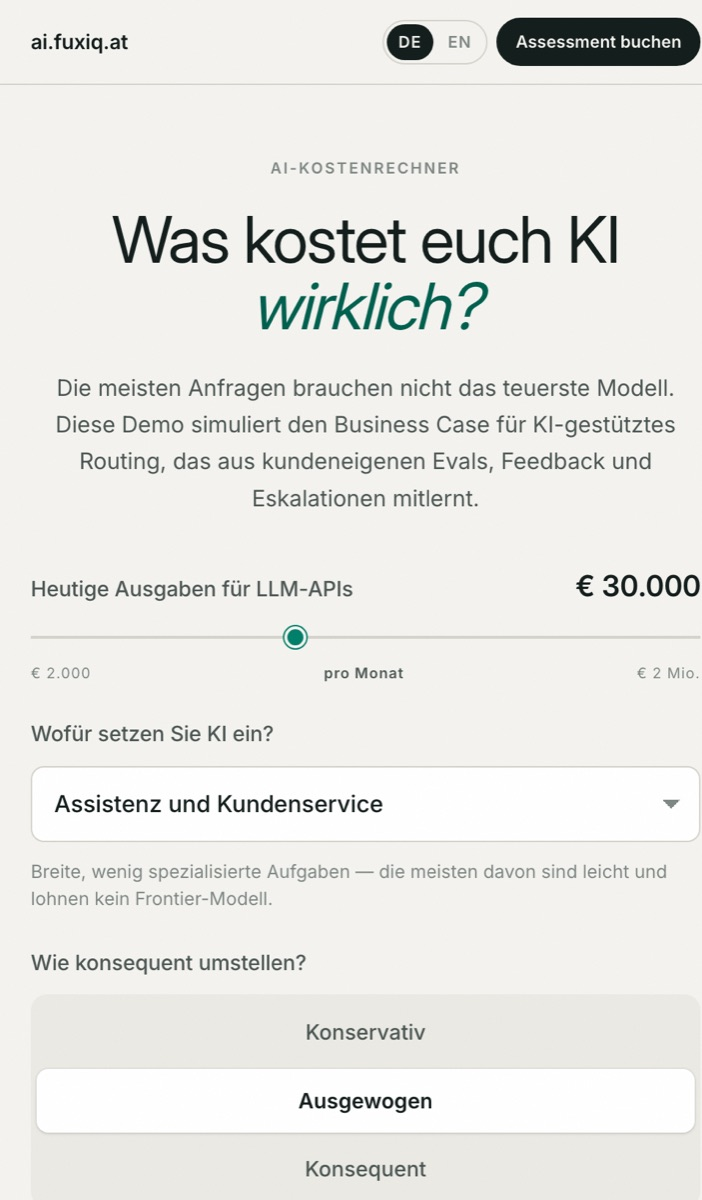
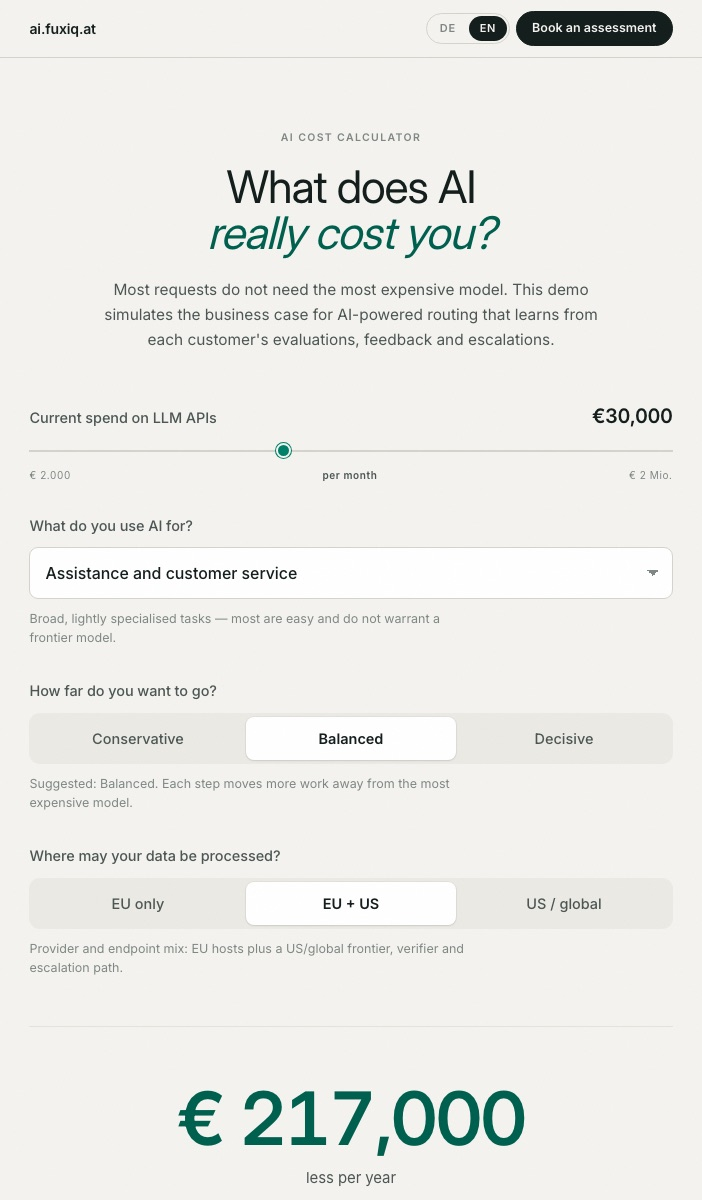
Describe project concepts instead of their websites
The project cards explained how each site was built - "zero-build static
site", "static site generator in Python", "the markup carries no copy at
all" - rather than the idea the site exists to present. Rewritten from
the English version of each project's own pages:

- EveryWay: the problem, six combinable profiles, data sources, gap
  analysis against existing tools, legal framing, beacon pilot at WU
- IntelligentLiving: context model, local/remote boundary, two-stage
  concierge, room device without display or status light
- AI Hedging: routing business case, sensitivity as the actual result,
  roadmap to tenant-isolated policies
- SEREVO: the hours after check-in, one core across verticals,
  self-service demo
- Shopping Intelligence: the fiscal QR signature as a ground-truth
  oracle for validating extraction

Also:
- Add Document Intelligence Architecture card with an SVG placeholder
- Drop the Celery/Postgres/Redis/S3 claim - not implemented, only a
  migration comment in the extraction repo
- Turn the Invoice Automation and APA methods lines into statements
- Replace the German AI Hedging and IntelligentLiving screenshots with
  English ones, taken from dist/en/ and ?lang=en
- Update the thesis section: medical domain named, accuracy and
  faithfulness as separate metrics, Fuseki, Qdrant, LiteLLM and Langfuse
  added to a stack list that had gone stale

diff --git a/index.html b/index.html
@@ -429,6 +429,15 @@
     }
     .project-img figcaption a { color: var(--subtle); text-decoration: underline; }
 
+    /* Karten ohne Foto: gezeichneter Platzhalter, gleiche Spaltenbreite */
+    .project-img.is-graphic {
+      background: linear-gradient(150deg, #eaeef4 0%, #dfe5ee 55%, #d5dce8 100%);
+      align-items: center;
+      justify-content: center;
+      padding: 22px;
+    }
+    .project-img.is-graphic svg { width: 100%; height: auto; max-height: 100%; }
+
     .project-body {
       padding: 26px 28px;
       display: flex;
@@ -985,7 +994,7 @@
               </div>
               <div class="project-meta-row">
                 <span class="project-meta-label">Methods</span>
-                <span class="project-meta-value">LLM prompting, document parsing, workflow automation, on-premise model deployment, SAP API integration.</span>
+                <span class="project-meta-value">Invoices are exactly the documents an enterprise cannot send to a cloud model, so the question is whether a model running on the company&rsquo;s own hardware is good enough to do the work. Agents parse the document, derive the posting and write it into SAP through its own API, with the boundary between what the agent completes alone and what a person still has to confirm treated as a design decision rather than a setting.</span>
               </div>
               <div class="project-meta-row">
                 <span class="project-meta-label">Outcome</span>
@@ -1018,7 +1027,7 @@
               </div>
               <div class="project-meta-row">
                 <span class="project-meta-label">Methods</span>
-                <span class="project-meta-value">Text classification, NLP-based feature engineering, relevance scoring, evaluation on private APA infrastructure.</span>
+                <span class="project-meta-value">An interview is a format, not a subject &mdash; it has to be recognised from structure and turn-taking rather than from what the text is about, which is why detection and ranking are two stages instead of one classifier. The archive cannot leave the newsroom, so every training and evaluation run happened on APA&rsquo;s own infrastructure rather than on rented compute.</span>
               </div>
               <div class="project-meta-row">
                 <span class="project-meta-label">Outcome</span>
@@ -1033,6 +1042,46 @@
               <span class="ptag">Secure Infrastructure</span>
             </div>
             <a class="project-link" href="https://www.linkedin.com/posts/apa-it-informations-technologie-gmbh_apa-goes-wu-wirtschaftsuniversit%C3%A4t-wien-activity-7369263730599149568-ni6k?utm_source=share&utm_medium=member_desktop&rcm=ACoAACodIawBH2AHCbOqjindKSbYE7NEccV6iik" target="_blank" rel="noopener">View on LinkedIn &rarr;</a>
+          </div>
+        </article>
+
+        <article class="project-card">
+          <figure class="project-img is-graphic" aria-hidden="true">
+            <svg viewBox="0 0 120 150" fill="none" xmlns="http://www.w3.org/2000/svg">
+              <rect x="8" y="10" width="72" height="96" rx="5" fill="#ffffff" stroke="#b9c4d4" stroke-width="1.4"/>
+              <rect x="26" y="30" width="72" height="96" rx="5" fill="#ffffff" stroke="#8c9cb4" stroke-width="1.6"/>
+              <path d="M38 50h48M38 62h48M38 74h30" stroke="#c3cddc" stroke-width="2.4" stroke-linecap="round"/>
+              <rect x="36" y="86" width="30" height="9" rx="3" fill="#0071e3" fill-opacity="0.14" stroke="#0071e3" stroke-width="1.2"/>
+              <path d="M70 108v6h18" stroke="#0071e3" stroke-width="1.6" stroke-linecap="round"/>
+              <circle cx="92" cy="114" r="5.5" fill="#0071e3" fill-opacity="0.16" stroke="#0071e3" stroke-width="1.6"/>
+              <path d="M89.6 114.2l1.9 1.9 3.1-3.6" stroke="#0071e3" stroke-width="1.6" stroke-linecap="round" stroke-linejoin="round"/>
+            </svg>
+          </figure>
+          <div class="project-body">
+            <div class="project-badge">Architecture &middot; 2026</div>
+            <h3>Document Intelligence Architecture</h3>
+            <p>An architecture concept for a document assistant used by a few thousand people on long, structured documents &mdash; contracts, legislation, briefs. Two problems drive the whole design: keeping cost and latency flat whether a workspace holds five documents or five hundred, and sharing a document set between people and between tools without inventing a second permission model for each.</p>
+            <div class="project-meta">
+              <div class="project-meta-row">
+                <span class="project-meta-label">Question</span>
+                <span class="project-meta-value">Where do the load-bearing decisions in a retrieval system actually sit &mdash; and which of them are architecture rather than model choice?</span>
+              </div>
+              <div class="project-meta-row">
+                <span class="project-meta-label">Methods</span>
+                <span class="project-meta-value">The workspace, not the user, as the organising unit, so sharing between people and sharing between tools become the same concept. Permissions held in the same database as the vectors, so the scope filter is a SQL predicate taken from the session and never from user or model input. Vendor abstractions pitched at document structure rather than domain semantics &mdash; pitched any higher, the interface becomes one provider&rsquo;s feature set with the other faked by regex, which is the lock-in the abstraction exists to prevent. Provenance carried through ingestion so a citation resolves to a page and a clause, and a grounding check that marks unsupported claims rather than displaying them as grounded.</span>
+              </div>
+              <div class="project-meta-row">
+                <span class="project-meta-label">Outcome</span>
+                <span class="project-meta-value">Seven abstraction layers, each earning its place through a second implementation that is actually run rather than anticipated &mdash; an abstraction with one implementation is a guess about the future. Every managed cloud service replaced locally by a container behind the same interface, so application code is identical in the proof of concept and in production. And a cost preview before large batch reviews, on the principle that a system which queues work has to say so before the user commits, not after.</span>
+              </div>
+            </div>
+            <div class="project-tags">
+              <span class="ptag">RAG</span>
+              <span class="ptag">pgvector</span>
+              <span class="ptag">Hybrid Search</span>
+              <span class="ptag">Architecture Design</span>
+              <span class="ptag">Azure</span>
+            </div>
           </div>
         </article>
 
@@ -1075,29 +1124,28 @@
             <figcaption>Photo by <a href="https://unsplash.com/@lastmanpaul" target="_blank" rel="noopener">Pavel Gromov</a> / Unsplash</figcaption>
           </figure>
           <div class="project-body">
-            <div class="project-badge">fuxiq &middot; Ongoing</div>
+            <div class="project-badge">fuxiq &middot; Live</div>
             <h3>SEREVO</h3>
-            <p>An operations platform for hospitality venues, built so that one product core serves several verticals. Beaches are the first vertical and the go-to-market wedge; pools, spas, resorts and hotels follow the same pattern. Runs multi-tenant in production with live demo venues.</p>
+            <p>Most venues run the floor on a radio and a laminated plan, and by half past nine the plan is already wrong: a spot assigned twice, a round of drinks delivered to the wrong row, two parasols that were in the inventory in May and are not on the floor in July. None of that is a booking problem &mdash; it happens in the hours after the booking, the part most hospitality software treats as somebody else&rsquo;s job. Booking software ends at check-in; SEREVO starts there.</p>
             <div class="project-meta">
               <div class="project-meta-row">
                 <span class="project-meta-label">Question</span>
-                <span class="project-meta-value">How can one platform serve beach clubs, pools, spas and resorts without turning into a separate product for each of them?</span>
+                <span class="project-meta-value">A beach club is not a restaurant with sand and a pool deck is not a dining room with chlorine &mdash; the floor plan changes with the season, staff are never standing at a terminal, guests will not install anything, and the stock walks away. What does an operations system look like when it is built for that, rather than for a fixed room with fixed tables?</span>
               </div>
               <div class="project-meta-row">
                 <span class="project-meta-label">Methods</span>
-                <span class="project-meta-value">Multi-tenant data model in Prisma and Postgres, Supabase for auth and storage, TypeScript across guest web app and staff devices, Docker Compose behind Caddy, S3-compatible object storage.</span>
+                <span class="project-meta-value">One product core serving several verticals instead of a codebase per venue type &mdash; beaches first as the go-to-market wedge, with pools, spas, resorts and hotels following the same pattern. Spots, orders, service requests, activities and inventory in a single live operational view; guests order by scanning once, with no app and no account. Existing PMS, POS, access control and messaging stay connected rather than being replaced, and multi-tenancy keeps each property&rsquo;s team, brand and data separate under one management view.</span>
               </div>
               <div class="project-meta-row">
                 <span class="project-meta-label">Outcome</span>
-                <span class="project-meta-value">Live multi-tenant deployment with demo venues and guest passes; a shared platform core with the beach vertical packaged on top, rather than one codebase per venue type.</span>
+                <span class="project-meta-value">Running multi-tenant in production. A self-service demo provisions a complete venue &mdash; zones, spots, loungers and parasols, a menu, checked-in guests and orders already in progress &mdash; in about thirty seconds, so the product is evaluated by being used rather than in a sales call. Every service request arrives with its location and an owner; equipment stays visible when it moves, needs repair or leaves service.</span>
               </div>
             </div>
             <div class="project-tags">
-              <span class="ptag">TypeScript</span>
-              <span class="ptag">Supabase</span>
-              <span class="ptag">Postgres</span>
               <span class="ptag">Multi-tenant</span>
-              <span class="ptag">Docker</span>
+              <span class="ptag">Hospitality Ops</span>
+              <span class="ptag">Guest Experience</span>
+              <span class="ptag">Self-service Onboarding</span>
             </div>
             <a class="project-link" href="https://beach.fuxiq.at" target="_blank" rel="noopener">Visit the site &rarr;</a>
           </div>
@@ -1105,33 +1153,34 @@
 
         <article class="project-card">
           <figure class="project-img">
-            <img src="/images/ai-hedging.jpg" alt="Screenshot of the AI cost calculator" loading="lazy">
+            <img src="/images/ai-hedging.jpg" alt="The AI Hedging cost calculator, showing routing inputs and the resulting annual saving" loading="lazy">
           </figure>
           <div class="project-body">
             <div class="project-badge">fuxiq &middot; Ongoing</div>
             <h3>AI Hedging</h3>
-            <p>A bilingual business-case calculator for the question of how to split an LLM workload across frontier APIs, cheaper models and local inference. The longer-term goal is a multi-tenant European AI router whose routing policy improves from each customer&rsquo;s own quality signals.</p>
+            <p>Most requests do not need the most expensive model. AI Hedging asks which share of a company&rsquo;s LLM workload genuinely requires the frontier model, and what a controlled second path across cheaper, hosted and local inference actually costs and saves. The longer-term product is a European, multi-tenant AI router that picks the cheapest model still meeting each customer&rsquo;s own quality bar, latency target and data policy.</p>
             <div class="project-meta">
               <div class="project-meta-row">
                 <span class="project-meta-label">Question</span>
-                <span class="project-meta-value">Which share of an LLM workload actually needs the most expensive model &mdash; and what does moving the rest to cheaper or local inference cost and save?</span>
+                <span class="project-meta-value">Which share of an LLM workload actually needs the most expensive model &mdash; and what does a second path cost once verifier runs, escalations and additional failures are netted against the saving?</span>
               </div>
               <div class="project-meta-row">
                 <span class="project-meta-label">Methods</span>
-                <span class="project-meta-value">Static site generator in Python, calculation core in JavaScript, single-source German and English content model, scenario modelling across provider pricing, GPU cost and substitution rate.</span>
+                <span class="project-meta-value">The business case modelled end to end: avoided API cost netted against verifier and escalation runs, additional failures measured against the frontier reference, and &mdash; where selected &mdash; local total cost of ownership and reduced outage risk. The workload is split into easy, medium and hard classes as a transparent starting policy, explicitly not the target product&rsquo;s decision logic. Sensitivity across price drift rather than a single number, with placeholder assumptions kept visibly separate from customer-measured values.</span>
               </div>
               <div class="project-meta-row">
                 <span class="project-meta-label">Outcome</span>
-                <span class="project-meta-value">Deployed calculator covering local-vs-API total cost of ownership, GPU cost, provider lock-in and API outage cost, in both languages from one source.</span>
+                <span class="project-meta-value">A business case whose actual result is the sensitivity, not a headline saving: at which price drift, task mix and quality bar a second path stops paying. A hosted second path cuts cost and provider concentration without CAPEX; own hardware is a separate scenario that only pays at sufficient load or with defensible outage value. The roadmap runs from the routing simulator through offline evaluation with design partners and a BYOK gateway to adaptive, tenant-isolated routing policies.</span>
               </div>
             </div>
             <div class="project-tags">
-              <span class="ptag">Python</span>
-              <span class="ptag">JavaScript</span>
               <span class="ptag">LLM Routing</span>
               <span class="ptag">TCO Modelling</span>
-              <span class="ptag">Static Site</span>
+              <span class="ptag">Multi-tenant</span>
+              <span class="ptag">EU Data Residency</span>
+              <span class="ptag">Cost Optimisation</span>
             </div>
+            <span class="project-soon">Coming soon &middot; ai.fuxiq.at</span>
           </div>
         </article>
 
@@ -1140,28 +1189,29 @@
             <img src="/images/everyway.jpg" alt="Screenshot of the EveryWay concept site" loading="lazy">
           </figure>
           <div class="project-body">
-            <div class="project-badge">Concept &middot; Ongoing</div>
+            <div class="project-badge">Concept &middot; Concept phase</div>
             <h3>EveryWay</h3>
-            <p>A routing concept for accessible navigation: routes that account for lift outages, closures and obstacles before somebody is standing in front of them. Six personal profiles &mdash; step-free, vision, hearing, stamina, low-stimulus and simple routes &mdash; can be combined per journey.</p>
+            <p>A route can work on the map and still be impassable in reality. A single broken lift is not a minor inconvenience &mdash; if it is the only step-free access to a station, the route does not get longer, it disappears. EveryWay plans journeys that already know the current state of the infrastructure and reroute around it before somebody is standing in front of the problem.</p>
             <div class="project-meta">
               <div class="project-meta-row">
                 <span class="project-meta-label">Question</span>
-                <span class="project-meta-value">What does a routing product need to know about a person before its shortest path is actually a usable path for them?</span>
+                <span class="project-meta-value">What does a routing system need to know &mdash; about the network&rsquo;s current state and about the person travelling &mdash; before its shortest path is actually a usable path?</span>
               </div>
               <div class="project-meta-row">
                 <span class="project-meta-label">Methods</span>
-                <span class="project-meta-value">Profile-based route filtering, real-time disruption feed concept, accessibility-first interface design, zero-build static site with an interactive concept demo.</span>
+                <span class="project-meta-value">Six combinable need profiles &mdash; step-free, vision, hearing, stamina, low-stimulus and simple routes &mdash; instead of one accessibility filter; static infrastructure from OpenStreetMap tagging joined with operator real-time disruption feeds and community reports that carry confirmation and expiry; participatory development with self-advocacy organisations, and EN 301 549 from the first line rather than at acceptance testing.</span>
               </div>
               <div class="project-meta-row">
                 <span class="project-meta-label">Outcome</span>
-                <span class="project-meta-value">Published concept and working demo covering six accessibility profiles, written as the groundwork for a pilot project.</span>
+                <span class="project-meta-value">A documented concept: the data already exists and is openly licensed &mdash; the work is in connecting it. Gap analysis against Wheelmap, operator lift-status services and academic OSM routing prototypes shows nobody joins static infrastructure, multi-operator real-time status and community knowledge into one continuous door-to-destination route. Positioned against existing obligations (UN CRPD Art. 9, National Action Plan on Disability 2022&ndash;2030, BaFG), with the open points &mdash; advisory board, first user research &mdash; stated rather than hidden. One building block is already specified in detail: beacon-guided wayfinding for the places where GPS gives up, with the accessibility graph held offline on the device, reports tied to a confirmed beacon so that they carry weight, and the WU Vienna campus as the first pilot area &mdash; small enough to survey, public, and mixing indoor and outdoor space.</span>
               </div>
             </div>
             <div class="project-tags">
               <span class="ptag">Accessibility</span>
               <span class="ptag">Routing</span>
-              <span class="ptag">Concept Design</span>
-              <span class="ptag">Static Site</span>
+              <span class="ptag">Real-time Data</span>
+              <span class="ptag">OpenStreetMap</span>
+              <span class="ptag">Participatory Design</span>
             </div>
             <a class="project-link" href="https://everyway.fuxiq.at" target="_blank" rel="noopener">Visit the site &rarr;</a>
           </div>
@@ -1169,31 +1219,31 @@
 
         <article class="project-card">
           <figure class="project-img">
-            <img src="/images/intelligentliving.jpg" alt="Screenshot of the IntelligentLiving site" loading="lazy">
+            <img src="/images/intelligentliving.jpg" alt="A dark stone facade with the line &quot;Your home can do more than wait for commands&quot;" loading="lazy">
           </figure>
           <div class="project-body">
             <div class="project-badge">Concept &middot; Ongoing</div>
             <h3>IntelligentLiving</h3>
-            <p>A bilingual product site for a private home-intelligence concept &mdash; a home that anticipates rather than waits for commands. The markup carries no copy at all: every string in both languages lives in a single translation module, so text and structure stay independently maintainable.</p>
+            <p>A home that understands situations instead of waiting for commands, and takes the small everyday decisions off your hands. The goal is not more smart home &mdash; it is less for you to think about: no setting things in the morning, no checking whether everything is switched off, no app for every part of the house, no rules for you to maintain.</p>
             <div class="project-meta">
               <div class="project-meta-row">
                 <span class="project-meta-label">Question</span>
-                <span class="project-meta-value">Can a home automation product be described without the usual smart-home vocabulary, and stay privacy-first in its architecture rather than only in its marketing?</span>
+                <span class="project-meta-value">Can a home be intelligent without becoming the next interface that demands your attention &mdash; and stay privacy-first in its architecture rather than only in its marketing?</span>
               </div>
               <div class="project-meta-row">
                 <span class="project-meta-label">Methods</span>
-                <span class="project-meta-value">Zero-build static site, strict separation of copy and structure through one i18n module, scroll-driven narrative, German and English rendered from the same source.</span>
+                <span class="project-meta-value">An intelligence layer above existing home automation, separated from it by a deliberate boundary: the layer forms an intent, the house decides locally what follows from it. A language model proposes; it does not act. Where processing happens is decided per class of data rather than once for the whole product, and the system degrades in stages so that a lost connection costs intelligence, not function. Automation is split into doing, coordinating and anticipating, with cost, reach and safety deciding what may happen without confirmation.</span>
               </div>
               <div class="project-meta-row">
                 <span class="project-meta-label">Outcome</span>
-                <span class="project-meta-value">Complete bilingual site and copydeck, including legal pages and a technical page, with every user-facing string in one file.</span>
+                <span class="project-meta-value">A worked concept covering the context model, the local/remote boundary, and a two-stage concierge &mdash; AI for what is digital and clearly ordered, a person where a person is the better answer. Including a room device deliberately built without display, logo or permanent status light, because the technology is meant to disappear rather than announce itself.</span>
               </div>
             </div>
             <div class="project-tags">
-              <span class="ptag">i18n</span>
-              <span class="ptag">Static Site</span>
+              <span class="ptag">Home Intelligence</span>
               <span class="ptag">Privacy-first</span>
-              <span class="ptag">Copy Architecture</span>
+              <span class="ptag">Local Inference</span>
+              <span class="ptag">Concept Design</span>
             </div>
             <span class="project-soon">Coming soon &middot; intelligentliving.fuxiq.at</span>
           </div>
@@ -1207,27 +1257,27 @@
           <div class="project-body">
             <div class="project-badge">fuxiq &middot; In development</div>
             <h3>Shopping Intelligence Platform</h3>
-            <p>A consumer platform that turns grocery receipts into a household demand profile, then uses that profile to surface better offers, plan shopping trips and show where the money actually goes. Currently in the receipt extraction phase.</p>
+            <p>A consumer platform that turns grocery receipts into a household demand profile, then uses that profile to surface offers that are genuinely better for that household, plan shopping trips and show where the money actually goes. The receipt is the hard part: everything downstream depends on the line items being right.</p>
             <div class="project-meta">
               <div class="project-meta-row">
                 <span class="project-meta-label">Question</span>
-                <span class="project-meta-value">Can a household&rsquo;s own receipts produce a demand profile precise enough to find offers that are genuinely better for that household?</span>
+                <span class="project-meta-value">Can a household&rsquo;s own receipts produce a demand profile precise enough to find offers that are genuinely better for that household &mdash; and how do you know when an extracted receipt is trustworthy enough to build on?</span>
               </div>
               <div class="project-meta-row">
                 <span class="project-meta-label">Methods</span>
-                <span class="project-meta-value">Receipt extraction pipeline, asynchronous task processing with Celery, Postgres and Redis, S3-compatible object storage, phased roadmap with ticketed milestones.</span>
+                <span class="project-meta-value">Austrian receipts carry a fiscal QR code with a cryptographically signed total, which the pipeline treats as a ground-truth oracle instead of trusting the model&rsquo;s own output. Perspective-corrected cropping and OCR feed a structured extraction; where the extracted total disagrees with the signed one by more than a cent, a second model runs with the signed total injected as a hint. A supervision interface exposes every intermediate stage &mdash; crop, decoded code, OCR text, extracted data &mdash; so a failure can be attributed to a step rather than to the pipeline as a whole.</span>
               </div>
               <div class="project-meta-row">
                 <span class="project-meta-label">Outcome</span>
-                <span class="project-meta-value">Platform foundation and data model complete; the receipt extraction pipeline is the phase currently in progress.</span>
+                <span class="project-meta-value">An extraction pipeline with a built-in correctness signal: for each receipt it can state whether the result reconciles against a signed total, rather than reporting a confidence score. Receipt extraction is the phase in progress; the demand profile and offer matching build on it.</span>
               </div>
             </div>
             <div class="project-tags">
-              <span class="ptag">Python</span>
-              <span class="ptag">Celery</span>
-              <span class="ptag">Postgres</span>
-              <span class="ptag">Redis</span>
               <span class="ptag">Document Extraction</span>
+              <span class="ptag">LLM Validation</span>
+              <span class="ptag">OCR</span>
+              <span class="ptag">Structured Output</span>
+              <span class="ptag">Consumer Data</span>
             </div>
           </div>
         </article>
@@ -1276,7 +1326,7 @@
       <div class="section-header fade-up">
         <div class="eyebrow">Research</div>
         <h2>Bachelor Thesis.</h2>
-        <p class="section-sub">Graph-grounded question answering &mdash; at WU Vienna.</p>
+        <p class="section-sub">Grounding medical answers in a human-curated knowledge graph &mdash; at WU Vienna.</p>
       </div>
 
       <div class="thesis-card fade-up">
@@ -1292,25 +1342,27 @@
         </div>
 
         <p class="thesis-desc">
-          LLMs can sound confident and be completely wrong. This thesis asks whether grounding answers in a large-scale, human-curated knowledge graph &mdash; traversed in parallel by multiple agents &mdash; can change that. Evaluated in a domain where being wrong is not just a low score.
+          LLMs can sound confident and be completely wrong. This thesis grounds medical question answering in a graph built from human-curated sources rather than extracted by a model &mdash; because a model-built graph puts hallucination into the substrate itself, before a question is ever asked. Sub-agents traverse the complete Wikidata truthy graph in parallel from different entry points, and a main agent selects the evidence the answer is built on. Accuracy and faithfulness are scored separately, so a system that is right for the wrong reasons does not count as a success.
         </p>
 
         <div class="thesis-grid">
           <div class="thesis-col">
             <h4>Research Focus</h4>
             <ul>
-              <li>Hybrid graph traversal with parallel sub-agents</li>
-              <li>Hallucination reduction &amp; answer faithfulness</li>
-              <li>Human-curated vs. LLM-extracted knowledge graphs</li>
+              <li>Hybrid seeded traversal with parallel sub-agents</li>
+              <li>Accuracy and faithfulness scored separately</li>
+              <li>Human-curated vs. LLM-extracted graph substrates</li>
+              <li>Compared against one-shot prompting, two-step RAG and agentic RAG</li>
             </ul>
           </div>
           <div class="thesis-col">
             <h4>Technologies &amp; Methods</h4>
             <ul>
-              <li>Neo4j &middot; Wikidata &middot; SPARQL</li>
-              <li>LangChain &middot; LlamaIndex</li>
+              <li>Wikidata truthy &middot; Fuseki &middot; SPARQL</li>
+              <li>Neo4j &middot; Qdrant &middot; Qwen3 embeddings</li>
+              <li>LangChain &middot; LlamaIndex &middot; LiteLLM</li>
               <li>Ollama &middot; vllm &middot; open-weight LLMs</li>
-              <li>Python &middot; MLflow</li>
+              <li>Python &middot; MLflow &middot; Langfuse</li>
             </ul>
           </div>
         </div>
